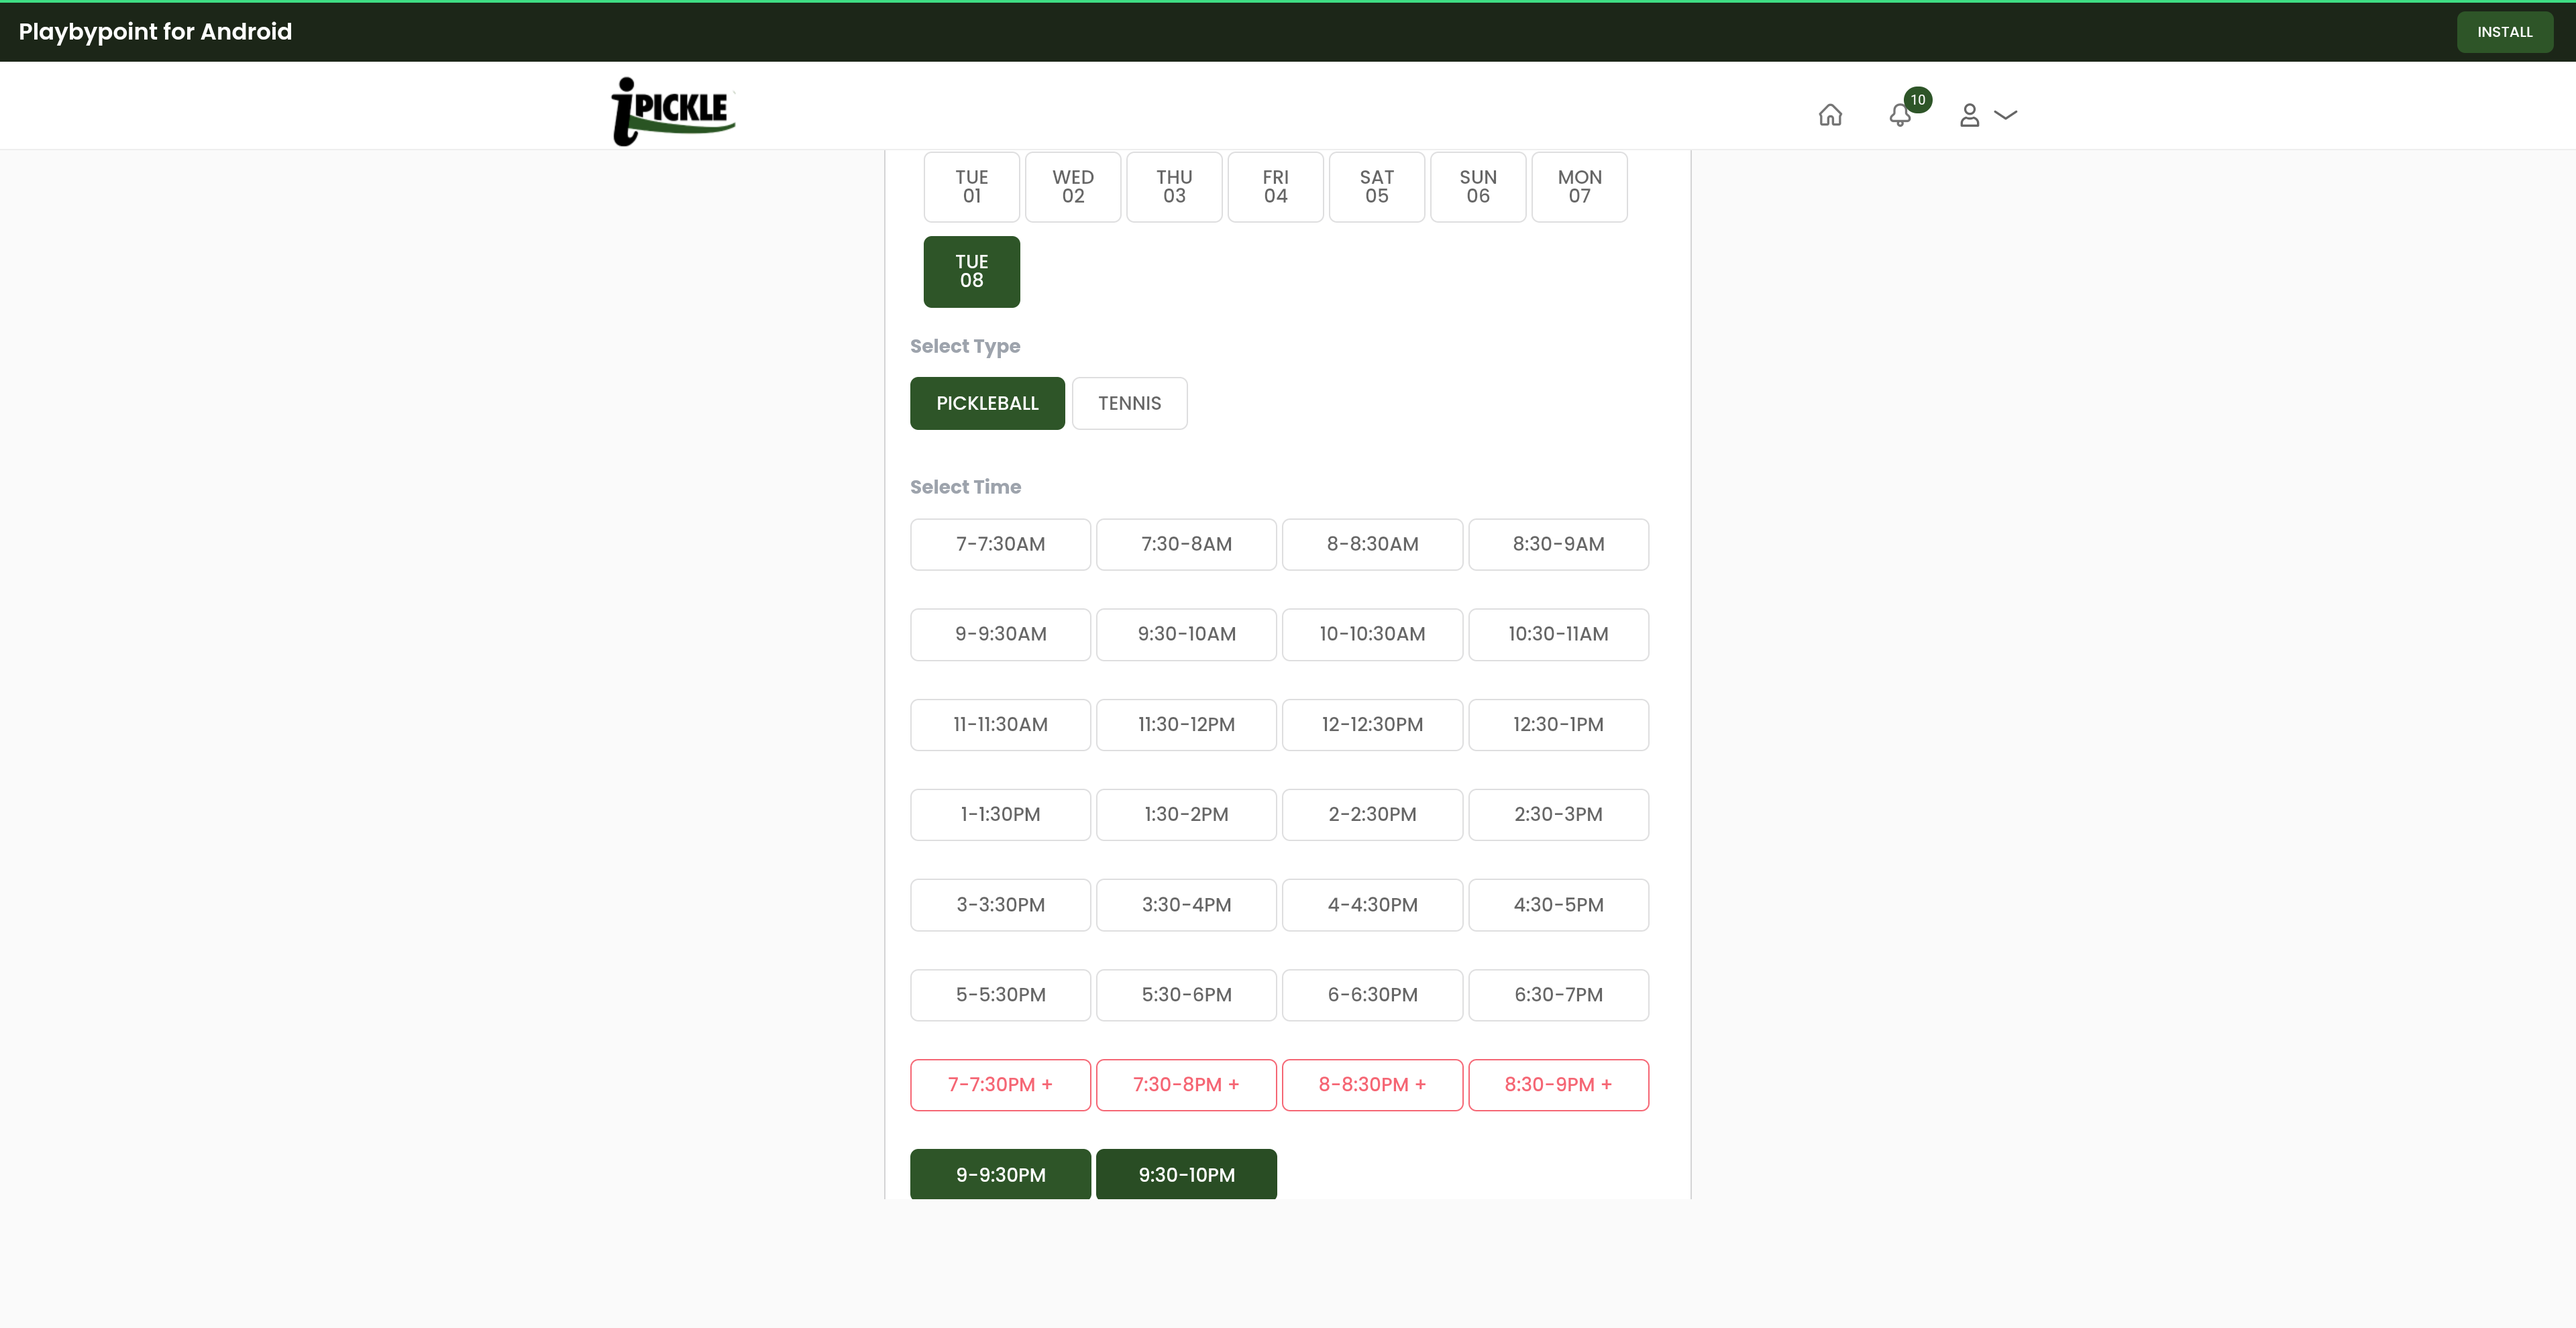
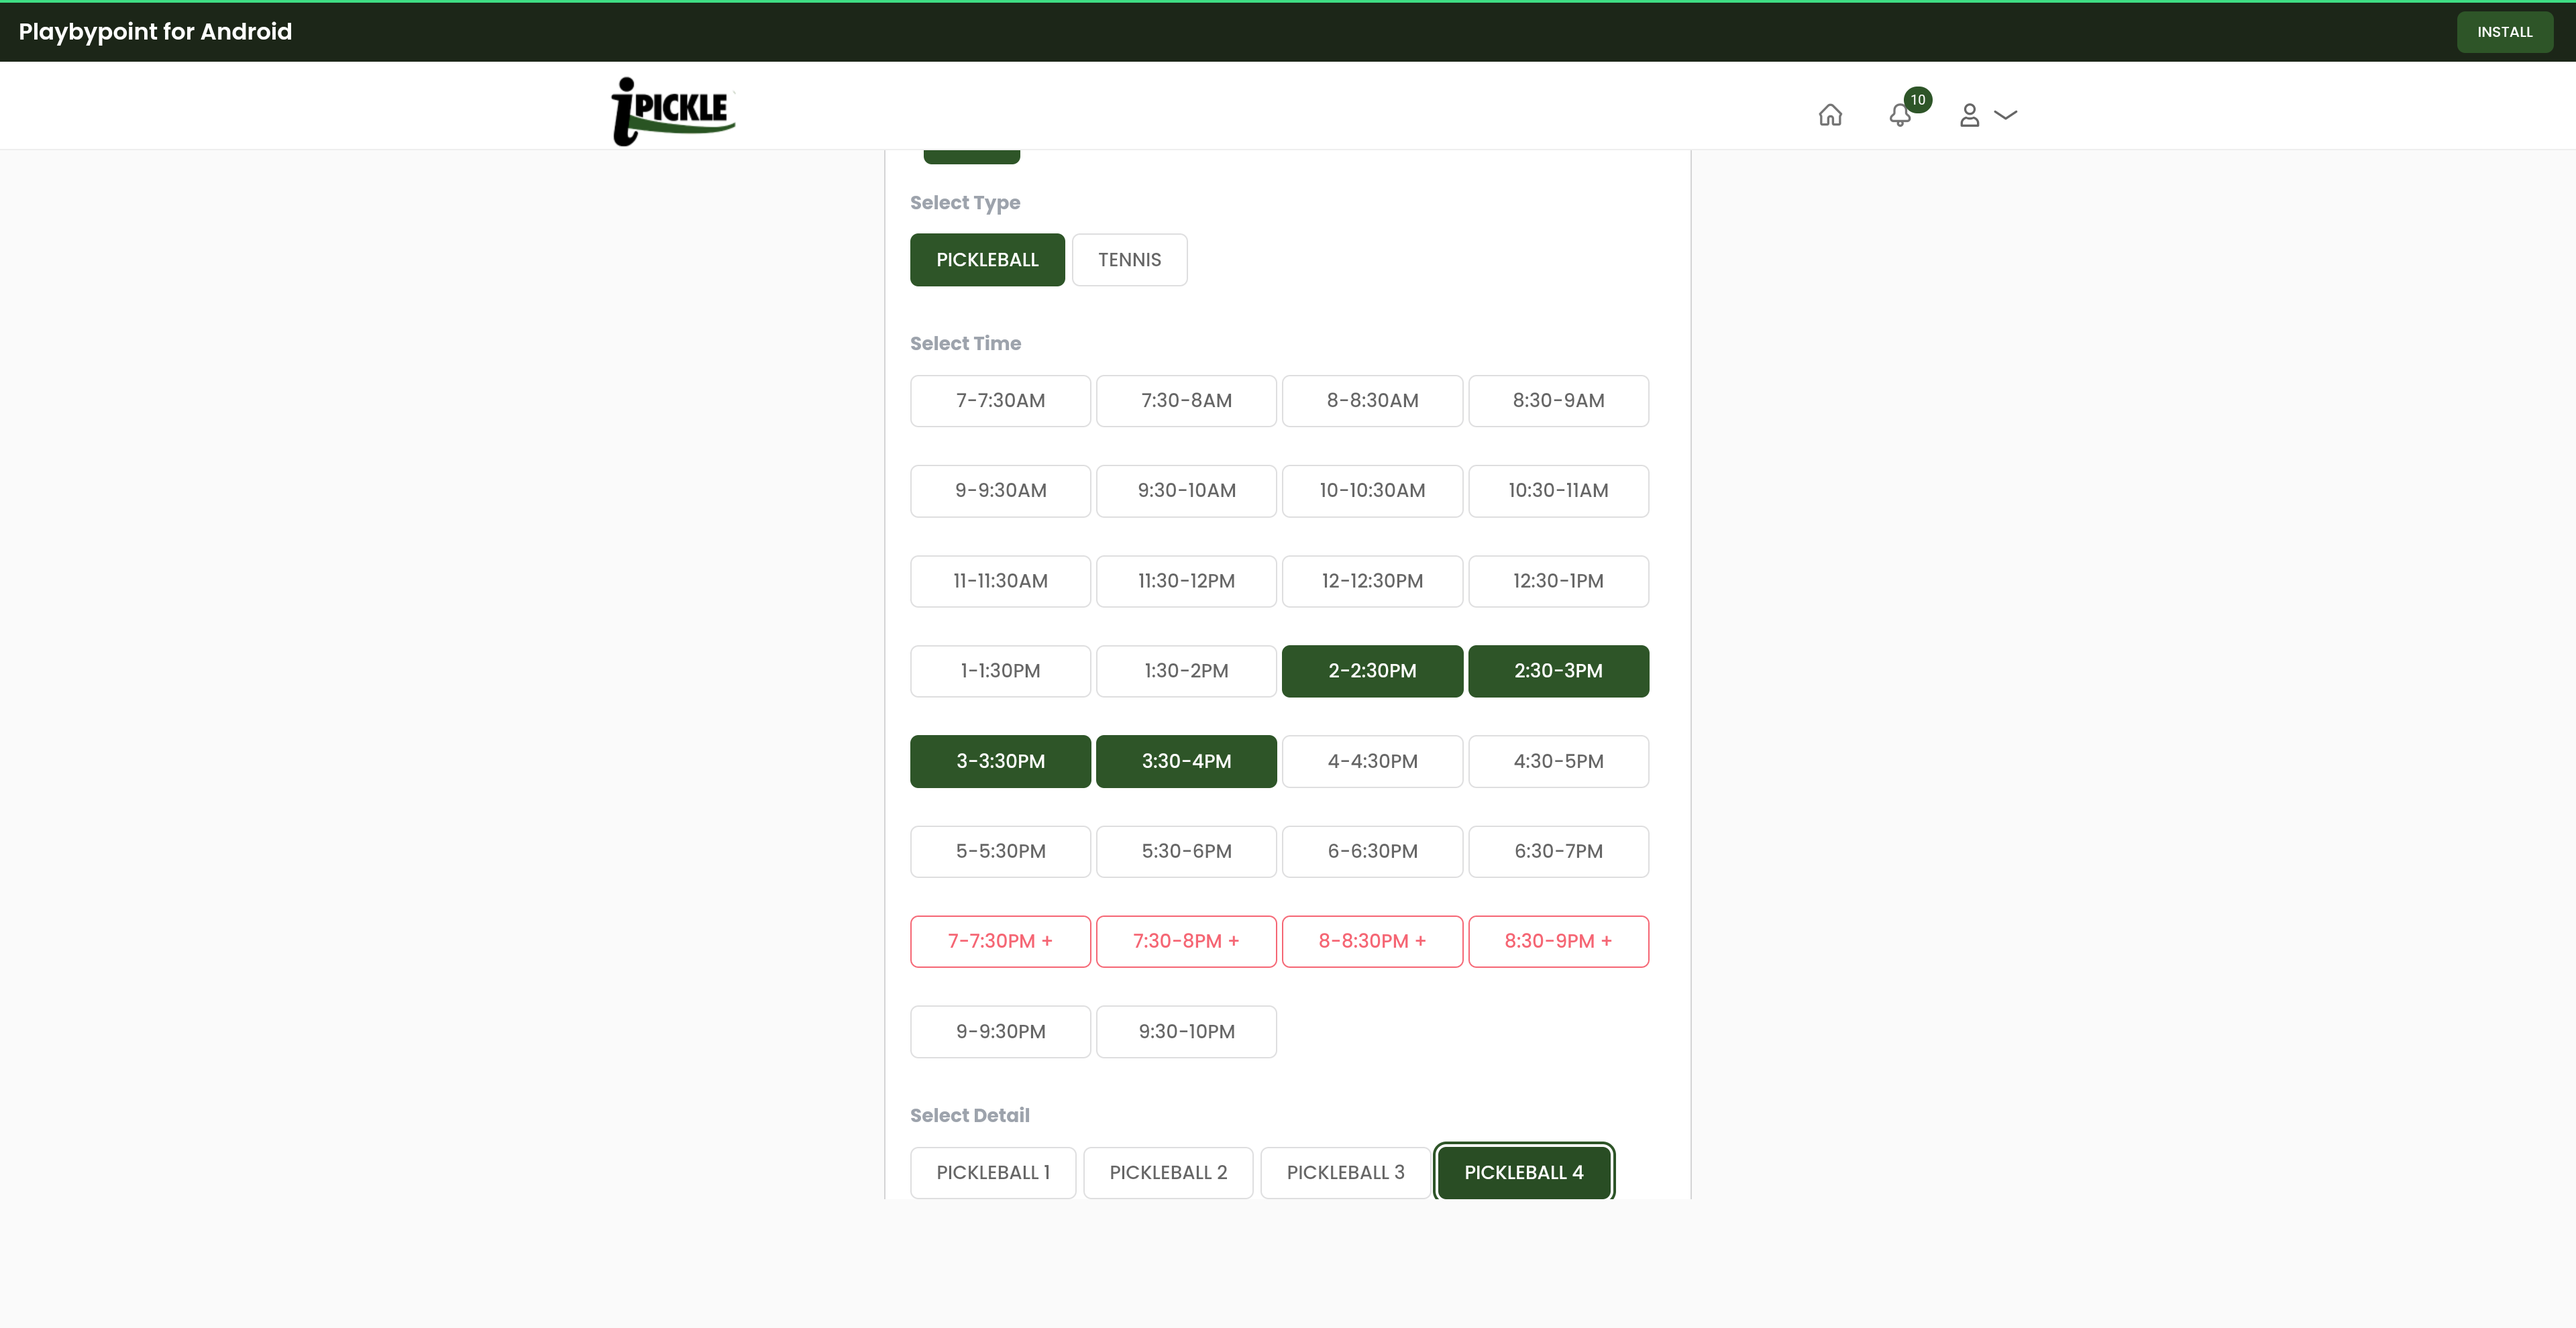
added time selection and court selection

diff --git a/src/browser/book-reservation.ts b/src/browser/book-reservation.ts
@@ -1,25 +1,17 @@
 import type { Browser } from "webdriverio";
 
-import { elementWaitMs } from "./config";
-import { bookingSelectors } from "./selectors";
-
-export type NavigateToBookingInputs = {
+export type ReservationInputs = {
   courtHierarchy: readonly string[];
   desiredTimes: readonly string[];
   secondary: string;
 };
 
-function getNextWeek(): string {
-    const now = new Date();
-    const pstNowString = now.toLocaleString('en-US', { timeZone: 'America/Los_Angeles' });
-    const pstNow = new Date(pstNowString);
-    const sevenDaysLater = new Date(pstNow.getTime() + 7 * 24 * 60 * 60 * 1000);
-    const dayOfMonth = sevenDaysLater.getDate().toString().padStart(2, '0');
-    return `//div[@class='day_number' and text()='${dayOfMonth}']`;
-}
-
 function desiredTimePath(time: string) : string {
     return `//button[text()='${time}' and not(contains(@class,'basic red'))]`
+}
+
+function courtPath(court : string) : string {
+    return `//h2[normalize-space()='Select Detail']/..//button[normalize-space()='Pickleball ${court}']`
 }
 
 function selectorIsConfigured(xpath: string) {
@@ -109,85 +101,81 @@ async function clickXPathFast(
   browser: Browser,
   name: string,
   xpath: string,
-) {
+): Promise<boolean> {
   if (!selectorIsConfigured(xpath)) {
     throw new Error(
       `Define the XPath for ${name} in src/browser/selectors.ts`,
     );
   }
 
-  console.log(`Looking for ${name}...`);
+  // console.log(`Looking for ${name}...`);
 
-  const maximumAttempts = 2;
-  const attemptWaitMs = 10_000;
+  const maximumAttempts = 1;
 
   for (let attempt = 1; attempt <= maximumAttempts; attempt++) {
     const elements = await browser.$$(xpath).getElements();
     for await (const [index, element] of elements.entries()) {
-      const displayed = await element.isDisplayed();
-
-      console.log(
-        `${name} candidate ${index + 1} displayed: ${displayed}`,
-      );
-
-      if (!displayed) {
-        continue;
-      }
-
       console.log(
         `Fast clicking: ${name}`,
       );
 
       await element.click();
-        await browser.pause(50);
-        console.log(`Clicked visible ${name} candidate ${index + 1}`);
-        return;
+      await browser.pause(100);
+      console.log(`Clicked visible ${name} candidate ${index + 1}`);
+      return true;
     }
   }
+
+  return false;
 }
 
-export async function navigateToBooking(browser: Browser) {
-  await browser.switchFrame(null);
+export async function bookReservation(
+  browser: Browser,
+  inputs: ReservationInputs,
+) {
+  const { courtHierarchy, desiredTimes, secondary } = inputs;
 
-  const bookingFrame = await browser.$(bookingSelectors.frame).getElement();
-
-  await bookingFrame.waitForExist({
-    timeout: elementWaitMs,
-    timeoutMsg: "Booking iframe did not appear after login",
+  console.log("Loaded booking inputs:", {
+    courtHierarchy,
+    desiredTimes,
+    secondary,
   });
 
-  await browser.switchFrame(bookingFrame);
-  console.log("Switched into booking iframe");
+  console.log("Continuing in the existing booking iframe");
 
-  await clickXPath(
-    browser,
-    "Book Now",
-    bookingSelectors.bookNow,
-  );
+  // check if counter is visible
 
-  await clickXPath(
-    browser,
-    "Reserve a full court",
-    bookingSelectors.reserveFullCourt,
-  );
+  // if no counter, click the courts
+  for (const time of desiredTimes) {
+    await clickXPathFast(
+      browser,
+      time,
+      desiredTimePath(time),
+    );
+  }
 
-  await clickXPath(
-    browser,
-    "Next",
-    bookingSelectors.next,
-  );
+  // click courts
+  let selectedCourt: string | undefined;
 
-  await clickXPath(
-    browser,
-    "Type: Pickleball",
-    bookingSelectors.typePickleball,
-  );
+  for (const court of courtHierarchy) {
+    const clicked = await clickXPathFast(
+      browser,
+      `Court ${court}`,
+      courtPath(court),
+    );
 
-  await clickXPath(
-    browser,
-    "Next Week",
-    getNextWeek(),
-  );
+    if (clicked) {
+      selectedCourt = court;
+      break;
+    } else {
+      console.log(`Court ${court} not available`)
+    }
+  }
+
+  if (!selectedCourt) {
+    throw new Error("None of the preferred courts could be clicked");
+  }
+
+  console.log(`Selected preferred court ${selectedCourt}`);
   await browser.pause(3_000);
-
 }

diff --git a/src/browser/main.ts b/src/browser/main.ts
@@ -13,6 +13,7 @@ import {
 
 import { createInterface } from "node:readline/promises";
 import { stdin as input, stdout as output } from "node:process";
+import { bookReservation, ReservationInputs } from "./book-reservation";
 
 export async function pause(message = "Press Enter to continue...") {
   const readline = createInterface({ input, output });
@@ -27,10 +28,11 @@ type BrowserWorkflowStep = {
   run: (browser: Browser) => Promise<void>;
 };
 
-export const bookingInputs: NavigateToBookingInputs = {
-  courtHierarchy: ["2", "3", "4", "8", "9", "1", "7", "5", "6", "10"],
+export const bookingInputs: ReservationInputs = {
+  courtHierarchy: ["8","9","4", "3", "8", "9", "2", "6", "1", "5", "10", "7"],
   // desiredTimes: ["7:30-8pm", "8-8:30pm", "8:30-9pm", "9-9:30pm"],
-  desiredTimes: ["9-9:30pm","9:30-10pm"],
+  desiredTimes: ['2-2:30pm','2:30-3pm','3-3:30pm','3:30-4pm'],
+  // desiredTimes: ["9-9:30pm","9:30-10pm"],
 
   secondary: "Paul Rodriguez",
 };
@@ -42,16 +44,19 @@ export const availableSteps: Record<string, BrowserWorkflowStep> = {
   },
   navigateToBooking: {
     name: "navigate to booking",
-    run: (browser) => navigateToBooking(browser, bookingInputs),
+    run: navigateToBooking,
+  },
+  bookReservation: {
+    name: "book the reservation",
+    run: (browser) => bookReservation(browser, bookingInputs),
   },
 };
 
 export const workflowSteps: BrowserWorkflowStep[] = [
   availableSteps.login,
   availableSteps.navigateToBooking,
+  availableSteps.bookReservation
 
-  // Uncomment this after defining the booking XPaths in selectors.ts.
-  // availableSteps.navigateToBooking,
 ];
 
 export async function runBrowserWorkflow(
@@ -101,6 +106,7 @@ export async function runBrowserWorkflow(
     );
     throw error;
   } finally {
+    await pause();
     process.removeListener("SIGINT", handleInterrupt);
     process.removeListener("SIGTERM", handleTermination);
 
@@ -112,7 +118,6 @@ export async function runBrowserWorkflow(
       console.error("Failed to save the final screenshot:", screenshotError);
     }
 
-    await pause();
     await closeSession();
   }
 }

diff --git a/src/browser/login.ts b/src/browser/login.ts
@@ -26,15 +26,15 @@ async function typeIntoSelector(
     timeoutMsg: `${name} was not visible after ${elementWaitMs / 1000} seconds`,
   });
 
-  await element.waitForEnabled({
-    timeout: elementWaitMs,
-    timeoutMsg: `${name} was not enabled after ${elementWaitMs / 1000} seconds`,
-  });
+  // await element.waitForEnabled({
+  //   timeout: elementWaitMs,
+  //   timeoutMsg: `${name} was not enabled after ${elementWaitMs / 1000} seconds`,
+  // });
 
-  await element.waitForClickable({
-    timeout: elementWaitMs,
-    timeoutMsg: `${name} was not clickable after ${elementWaitMs / 1000} seconds`,
-  });
+  // await element.waitForClickable({
+  //   timeout: elementWaitMs,
+  //   timeoutMsg: `${name} was not clickable after ${elementWaitMs / 1000} seconds`,
+  // });
 
   await element.click();
   await browser.pause(1_000);
@@ -113,6 +113,8 @@ export async function logInToPlayByPoint(browser: Browser) {
     "Sign in button",
     loginSelectors.signIn,
   );
+
+  await browser.pause(5_000);
 
   await browser.waitUntil(
     async () => !(await browser.getUrl()).includes("/users/sign_in"),
